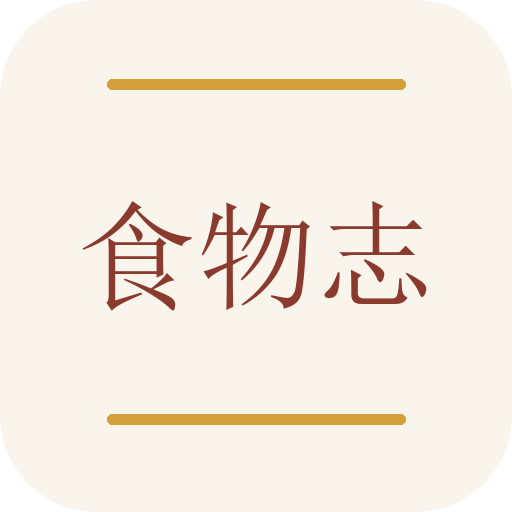
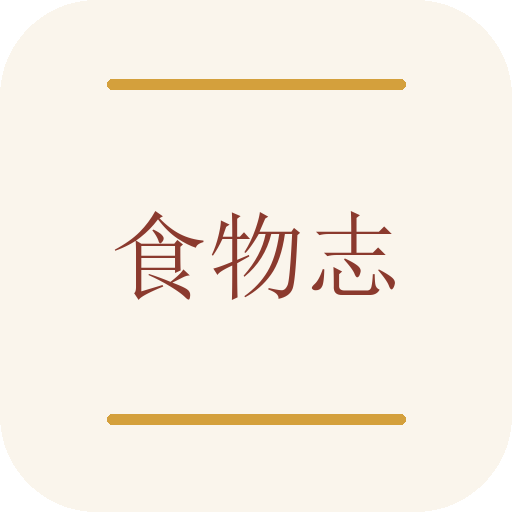
fix: 图标裁切终极修复（缓存失效+去maskable+更小字号）
三个必要改动，都是为了让新图标正确显示：

1) Service Worker缓存失效：CACHE_NAME v1→v2
   → 旧SW里的预缓存icon-192.png/icon-512.png全部作废
   → 用户手机访问时会拿到新PNG，不再返回旧图

2) manifest去maskable裁切：purpose 'any maskable' → 'any'
   → Edge/Android不再对图标外圈做圆形/圆角遮罩裁切
   → 文字完整显示不被切

3) 新PNG图标：字号再缩小
   - 192px: 36px字号，文字108px/画布192px（仅56%），左右安全边距42px（22%）
   - 512px: 97px字号，文字291px/画布512px（仅57%），左右安全边距110px（22%）
   → 即使有任何裁切，食物志三字都完整

页面逻辑/样式/SW功能/manifest其他字段完全不动

Changed region(s): [[0.1562, 0.375, 0.8438, 0.625]]

diff --git a/service-worker.js b/service-worker.js
@@ -1,5 +1,5 @@
 // 老上海评分表 - Service Worker（简单离线缓存）
-const CACHE_NAME = 'laoshanghai-score-v1';
+const CACHE_NAME = 'laoshanghai-score-v2';
 const PRECACHE_URLS = [
   './',
   './index.html',
